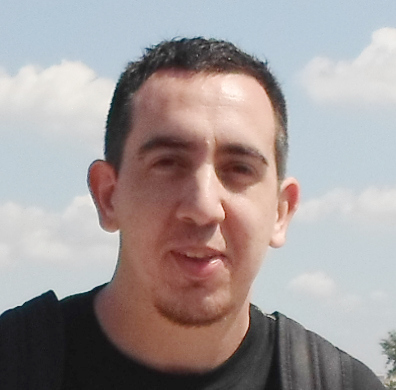
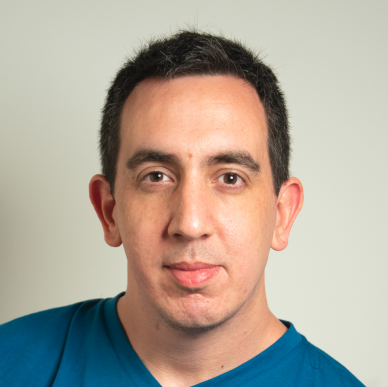
website update to include inorbit

diff --git a/themes/uilite/layouts/partials/sidebar.html b/themes/uilite/layouts/partials/sidebar.html
@@ -7,7 +7,7 @@
         <h1 class="heading">{{ $sidebar.title }} <span class="highlight">{{ $sidebar.highlightedText }}</span></h1>
 
         <p class="text-muted">
-            I'm currently working as Solutions Architect at <b>flugel.it</b> and Author at <b>Real Python</b>.<br/>
+            I work at <b>inOrbit.ai</b> as a software engineer and I also write articles for <b>Real Python</b>.<br/>
             I have a CS. degree from the University of Buenos Aires, graduated on 2016.
         </p>
 
@@ -20,9 +20,6 @@
         <p class="text-muted">
             I'm based in Buenos Aires, Argentina.
         </p>
-        <a target="_blank" href="miguel_garcia.pdf">
-            <i>Download curriculum in PDF format</i>
-        </a>
 
         <div class="social my-4">
 
